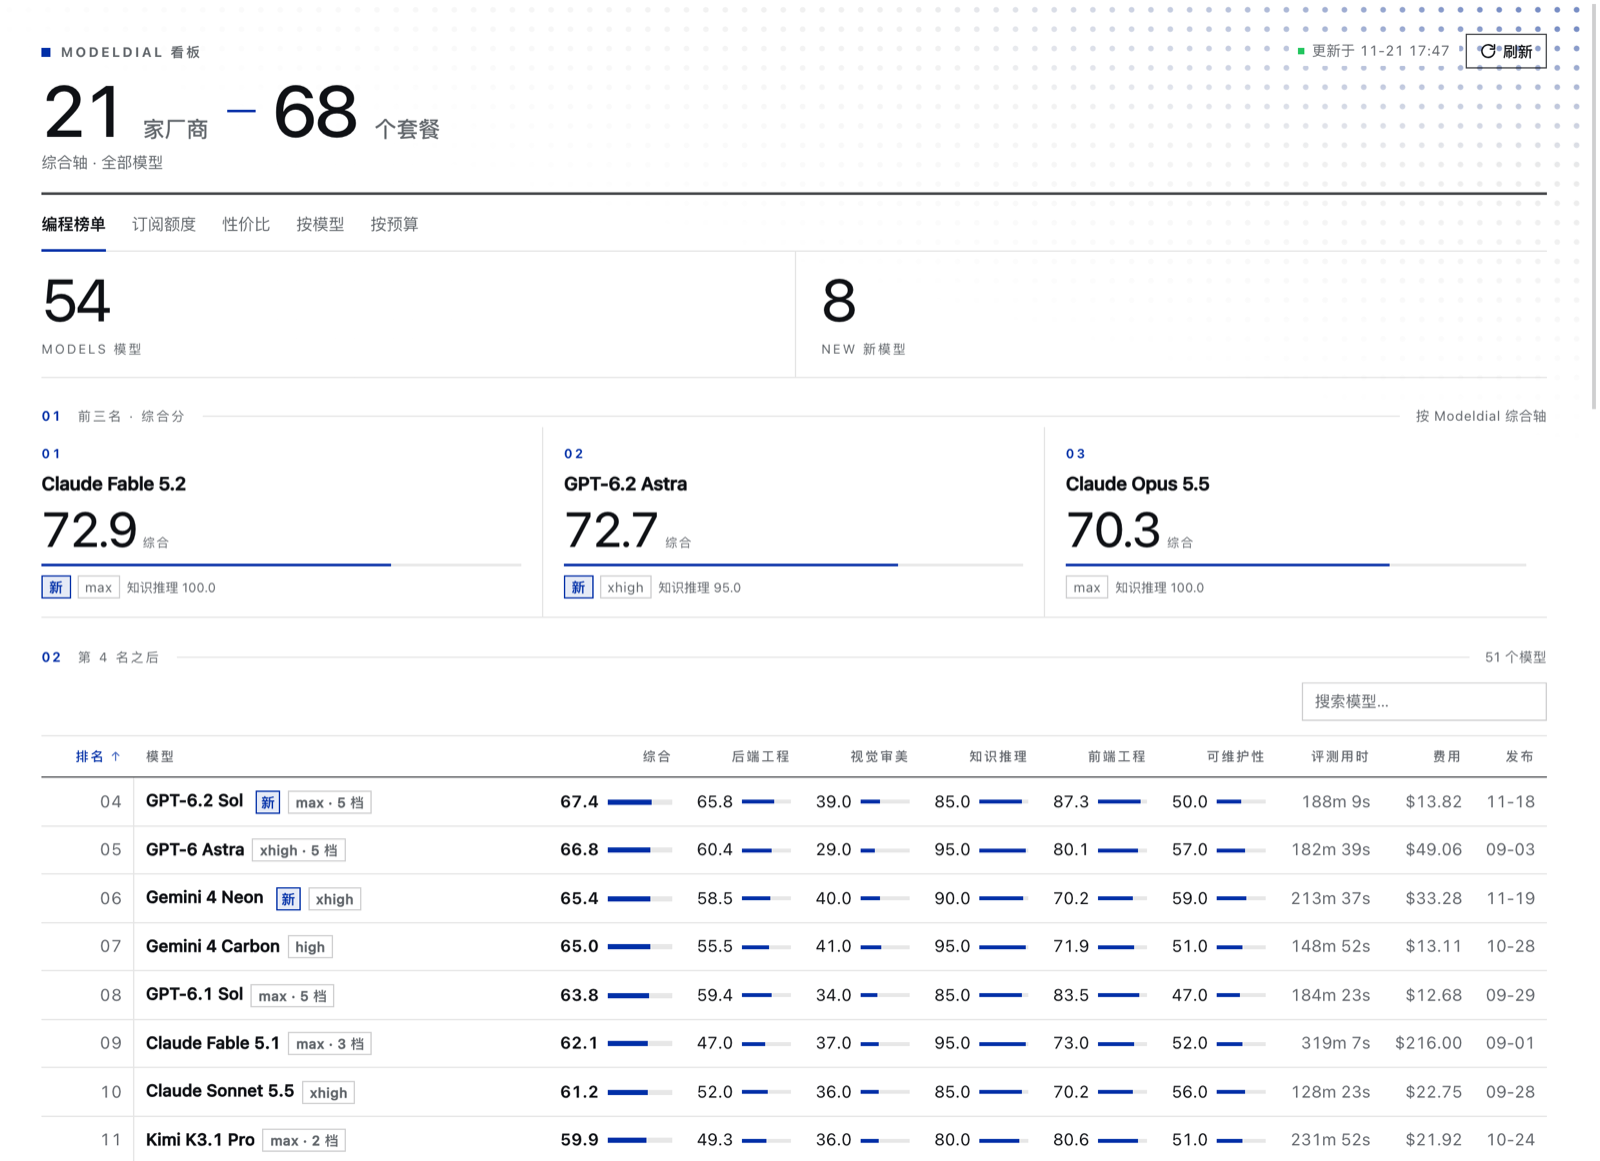
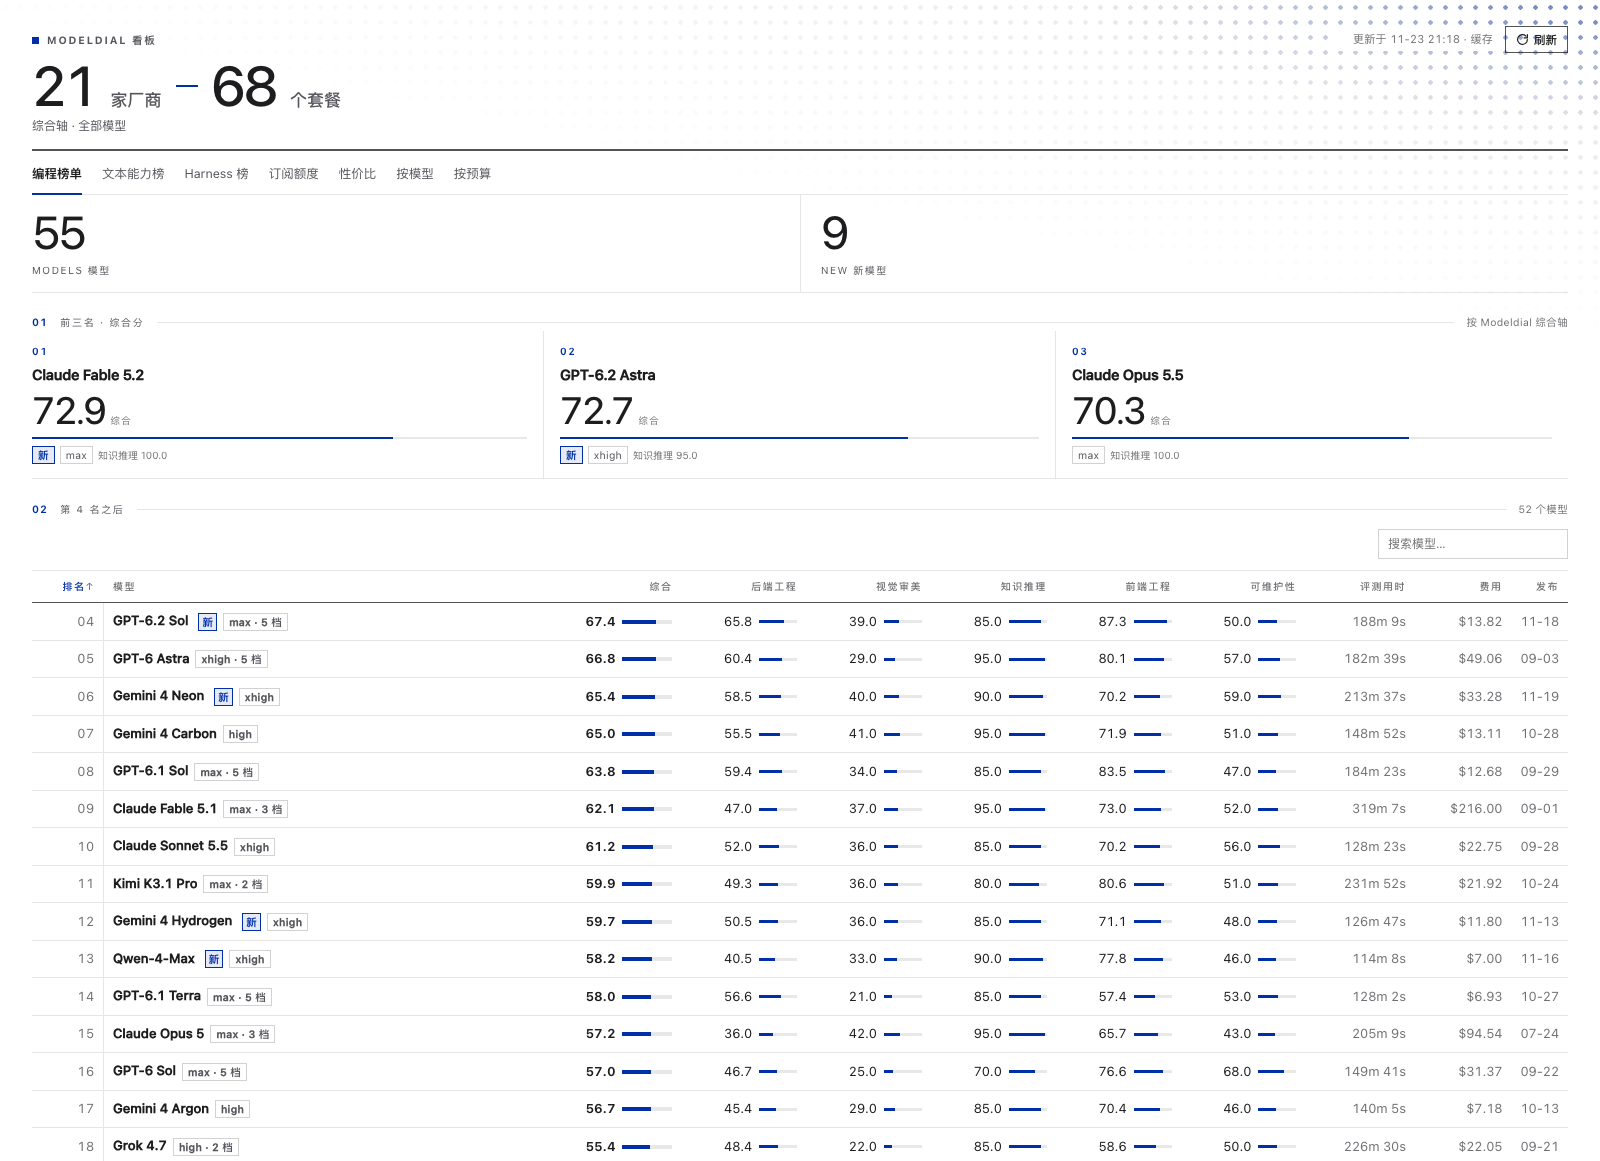
README 截图换成七页签实抓版，预览脚本支持 --live / --static
- 四张截图（编程/文本/Harness/额度）用运行中宿主的真实数据渲染，1600×1161
- preview.mjs 新增 --live（直接读宿主四个路由）与 --static（冻结入场动画，截图用）
- README 图片区改成 2×2 排布，补预览脚本的新参数

diff --git a/CHANGELOG.md b/CHANGELOG.md
@@ -10,6 +10,7 @@
 - 主分保留 50×4 条形，次级列降到 30×2；宽面板下模型列限 30%，操作列只包内容，右端不再空一列。
 - 补键盘焦点环；`prefers-reduced-motion` 下关掉按钮过渡。
 - 文本榜 KPI 的批次日期改用 `11/19`，不再读成分数区间。
+- README 截图换成七页签版本：编程 / 文本 / Harness / 额度四张，用 `preview.mjs --live --static` 按实抓数据渲染。
 
 ### 修复
 
